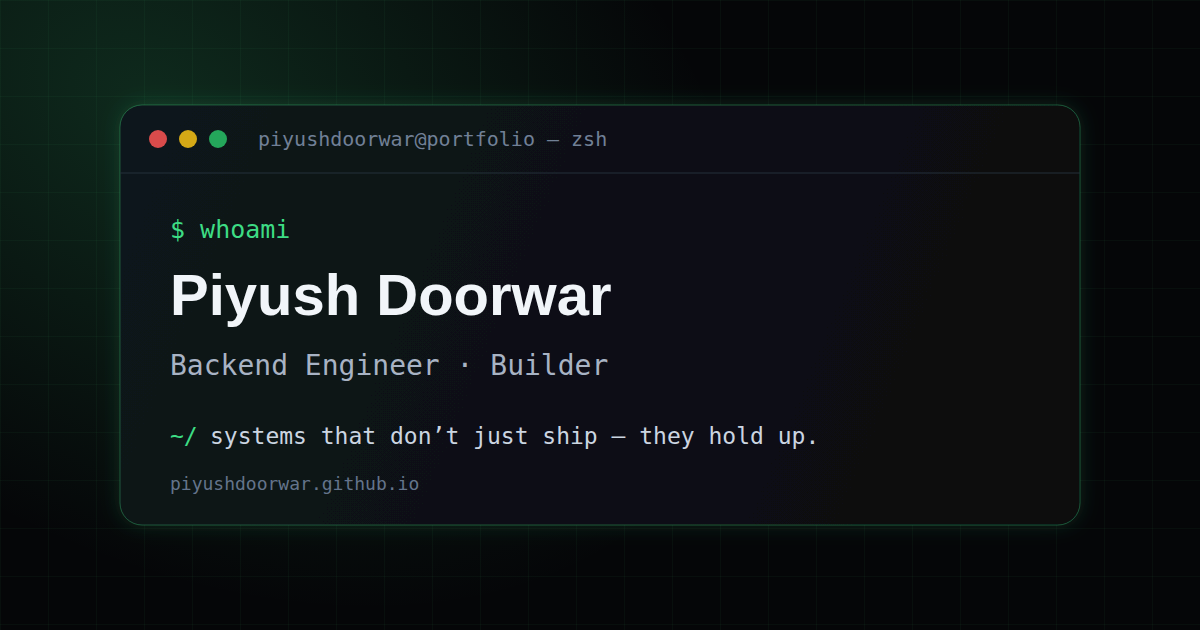
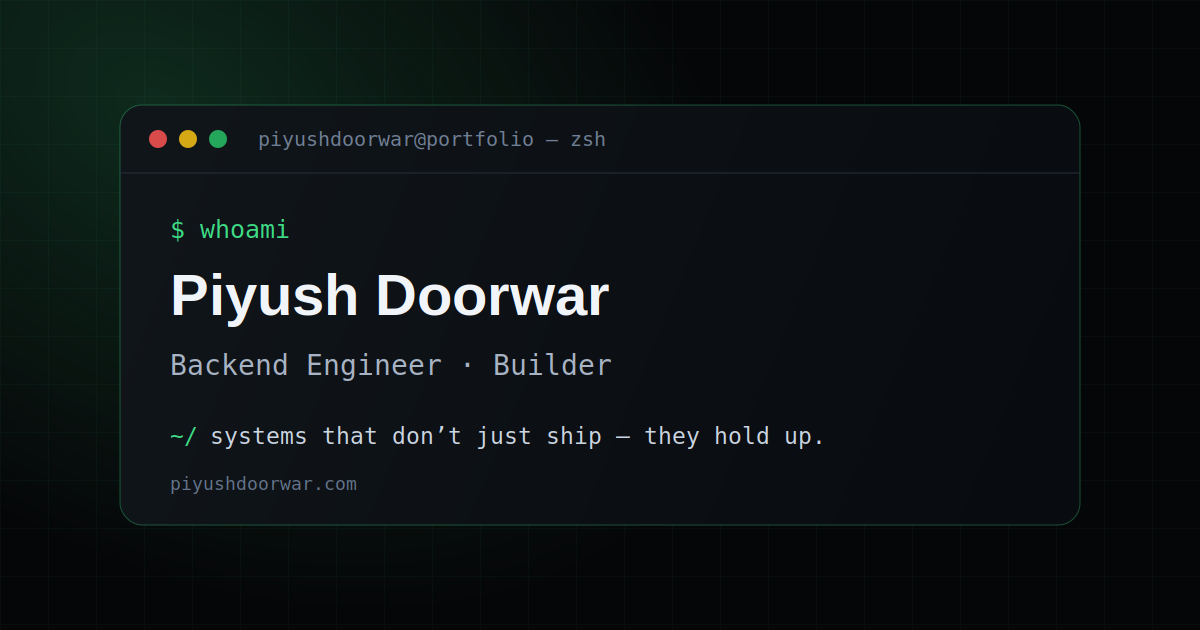
Migrate portfolio domain from github.io to custom domain
Update all references from piyushdoorwar.github.io to piyushdoorwar.com across documentation, metadata, and configuration. Optimize og-image.png, update Cloudflare analytics beacon token, and enhance traffic refresh logic to handle analytics property migration without retaining old partial month data. Add siteTag tracking to detect property changes and skip regression protection on first refresh after migration.

diff --git a/index.html b/index.html
@@ -11,7 +11,7 @@
       content="xvSB9a6QaFuSRvRWTtmR0XEtQZwSPaLeFm0uDXbtFWo"
     />
     <meta name="msvalidate.01" content="447F65967178CC4F85F56DD107712385" />
-    <link rel="canonical" href="https://piyushdoorwar.github.io/" />
+    <link rel="canonical" href="https://piyushdoorwar.com/" />
     <link rel="describedby" href="/llms.txt" type="text/plain" />
 
     <title>Piyush Doorwar — Engineer &amp; Builder</title>
@@ -28,8 +28,8 @@
       property="og:description"
       content="Piyush Doorwar — backend engineer with 8+ years building systems that hold up. Creator of Lumyn, Gitable and more. Projects, writing, music and books."
     />
-    <meta property="og:url" content="https://piyushdoorwar.github.io/" />
-    <meta property="og:image" content="https://piyushdoorwar.github.io/og-image.png" />
+    <meta property="og:url" content="https://piyushdoorwar.com/" />
+    <meta property="og:image" content="https://piyushdoorwar.com/og-image.png" />
     <meta property="og:image:width" content="1200" />
     <meta property="og:image:height" content="630" />
     <meta
@@ -43,7 +43,7 @@
       name="twitter:description"
       content="Piyush Doorwar — backend engineer with 8+ years building systems that hold up. Creator of Lumyn, Gitable and more. Projects, writing, music and books."
     />
-    <meta name="twitter:image" content="https://piyushdoorwar.github.io/og-image.png" />
+    <meta name="twitter:image" content="https://piyushdoorwar.com/og-image.png" />
     <meta
       name="twitter:image:alt"
       content="Piyush Doorwar — Engineer and Builder"
@@ -54,13 +54,13 @@
       {
         "@context": "https://schema.org",
         "@type": "ProfilePage",
-        "url": "https://piyushdoorwar.github.io/",
+        "url": "https://piyushdoorwar.com/",
         "mainEntity": {
           "@type": "Person",
-          "@id": "https://piyushdoorwar.github.io/#person",
+          "@id": "https://piyushdoorwar.com/#person",
           "name": "Piyush Doorwar",
           "alternateName": "piyushdoorwar",
-          "url": "https://piyushdoorwar.github.io/",
+          "url": "https://piyushdoorwar.com/",
           "description": "Engineer and builder with 8+ years of experience designing reliable systems.",
           "homeLocation": {
             "@type": "City",
@@ -116,9 +116,9 @@
 
     <!-- Cloudflare Web Analytics -->
     <script
-      defer
+      type="module"
       src="https://static.cloudflareinsights.com/beacon.min.js"
-      data-cf-beacon='{"token":"e9cd556fb46f4880a8842d37e2dfe3fb"}'
+      data-cf-beacon='{"token":"7bf02e12b7eb4bcfb147fbf33e347cd9"}'
     ></script>
     <!-- End Cloudflare Web Analytics -->
   </body>

diff --git a/vite.config.ts b/vite.config.ts
@@ -1,7 +1,7 @@
 import { defineConfig } from 'vitest/config'
 import react from '@vitejs/plugin-react'
 
-// User site served at the root of piyushdoorwar.github.io -> no base path needed.
+// The custom domain serves the user site at its root, so no base path is needed.
 // (Dev port is pinned via the `dev` npm script: `vite --port 5199 --strictPort`.)
 export default defineConfig(({ mode }) => ({
   base: '/',

diff --git a/README.md b/README.md
@@ -1,4 +1,4 @@
-# piyushdoorwar.github.io
+# piyushdoorwar.com
 
 Personal portfolio of **Piyush Doorwar** — backend engineer and builder.
 
@@ -67,10 +67,12 @@ current month is fetched from its first day through now and replaced daily. Afte
 the previous month is fetched once more and finalized so its last day is not missed. Queries use the
 dashboard's GMT+5:30 month boundaries by default; set `TRAFFIC_UTC_OFFSET_MINUTES` to override this.
 API totals are validated against country rows before a snapshot is written. The map derives
-cumulative totals from all stored months. The Cloudflare token is never sent to the browser. Configure
-the repository secret `CLOUDFLARE_API_TOKEN` with **Account → Account Analytics → Read**, plus
-repository variables `CLOUDFLARE_ACCOUNT_ID` and `CLOUDFLARE_SITE_TAG`. Without them, the fetcher
-preserves the committed snapshot.
+cumulative totals from all stored months. The Cloudflare API token is never sent to the browser.
+Configure the repository secret `CLOUDFLARE_API_TOKEN` with **Account → Account Analytics → Read**
+and the repository variable `CLOUDFLARE_ACCOUNT_ID`. The new site's public tag is set in
+`.github/workflows/refresh-stats.yml` and matches the beacon token in `index.html`. On the first
+refresh after this change, the current month's old-property snapshot is replaced; earlier months
+remain in the visitor map. Without the API credentials, the fetcher preserves the committed snapshot.
 
 **`fetch-medium.mjs`** — pulls the latest articles from the Medium RSS feed
 (`medium.com/feed/@piyushdoorwar`) into `src/data/medium.generated.json`: title, date, tags,
@@ -87,22 +89,25 @@ analytics source never blanks the static site.
 ## Search and LLM discovery
 
 `public/llms.txt` describes the portfolio and links to the project websites, including Dev Tools'
-dedicated LLM index and full reference. Keep it updated when adding or changing projects.
+dedicated LLM index and full reference. Project links retain their existing `github.io` URLs until
+each project's site is migrated. Keep this file updated when adding or changing projects.
 The HTML head links to this file using `rel="describedby"`.
 
 `public/robots.txt` allows crawling and points to `public/sitemap.xml`, the root sitemap index.
-That index includes `portfolio-sitemap.xml` for the homepage and each project's own sitemap.
+That index includes only `portfolio-sitemap.xml` for the homepage. Project sitemaps can be added
+after their sites are migrated to this domain.
 Portfolio section anchors belong in `llms.txt`, not as separate pages in the sitemap.
 Canonical, Open Graph, Twitter, and profile JSON-LD metadata live in `index.html`;
 the social preview image is `public/og-image.png` (1200×630).
 
 ## Deployment
 
-1. This must live in a repo named **`piyushdoorwar.github.io`** (rename this repo or push to a new
-   one) so it serves at the root URL.
+1. Keep this user site in the **`piyushdoorwar.github.io`** repository. Set
+   **`piyushdoorwar.com`** as its custom domain in **Settings → Pages**, configure the domain's
+   DNS records for GitHub Pages, and enable HTTPS when GitHub makes it available.
 2. In the repo: **Settings → Pages → Build and deployment → Source: GitHub Actions**.
 3. *(Visitor map)* Under **Settings → Secrets and variables → Actions**, add the secret
-   `CLOUDFLARE_API_TOKEN` and variables `CLOUDFLARE_ACCOUNT_ID` / `CLOUDFLARE_SITE_TAG`.
+   `CLOUDFLARE_API_TOKEN` and variable `CLOUDFLARE_ACCOUNT_ID`.
 4. *(Optional, for claps/comments)* Add the repository secret `RAPIDAPI_MEDIUM_KEY` with your
    RapidAPI Medium API key.
 5. Push to `main`. The deployment workflow builds using the committed generated JSON. Impact and
@@ -111,4 +116,4 @@ the social preview image is `public/og-image.png` (1200×630).
    runs. To test the visitor map immediately, open
    **Actions → Refresh impact and traffic stats → Run workflow**.
 
-Live at **https://piyushdoorwar.github.io** once deployed.
+Live at **https://piyushdoorwar.com** once deployed and HTTPS is enabled.
